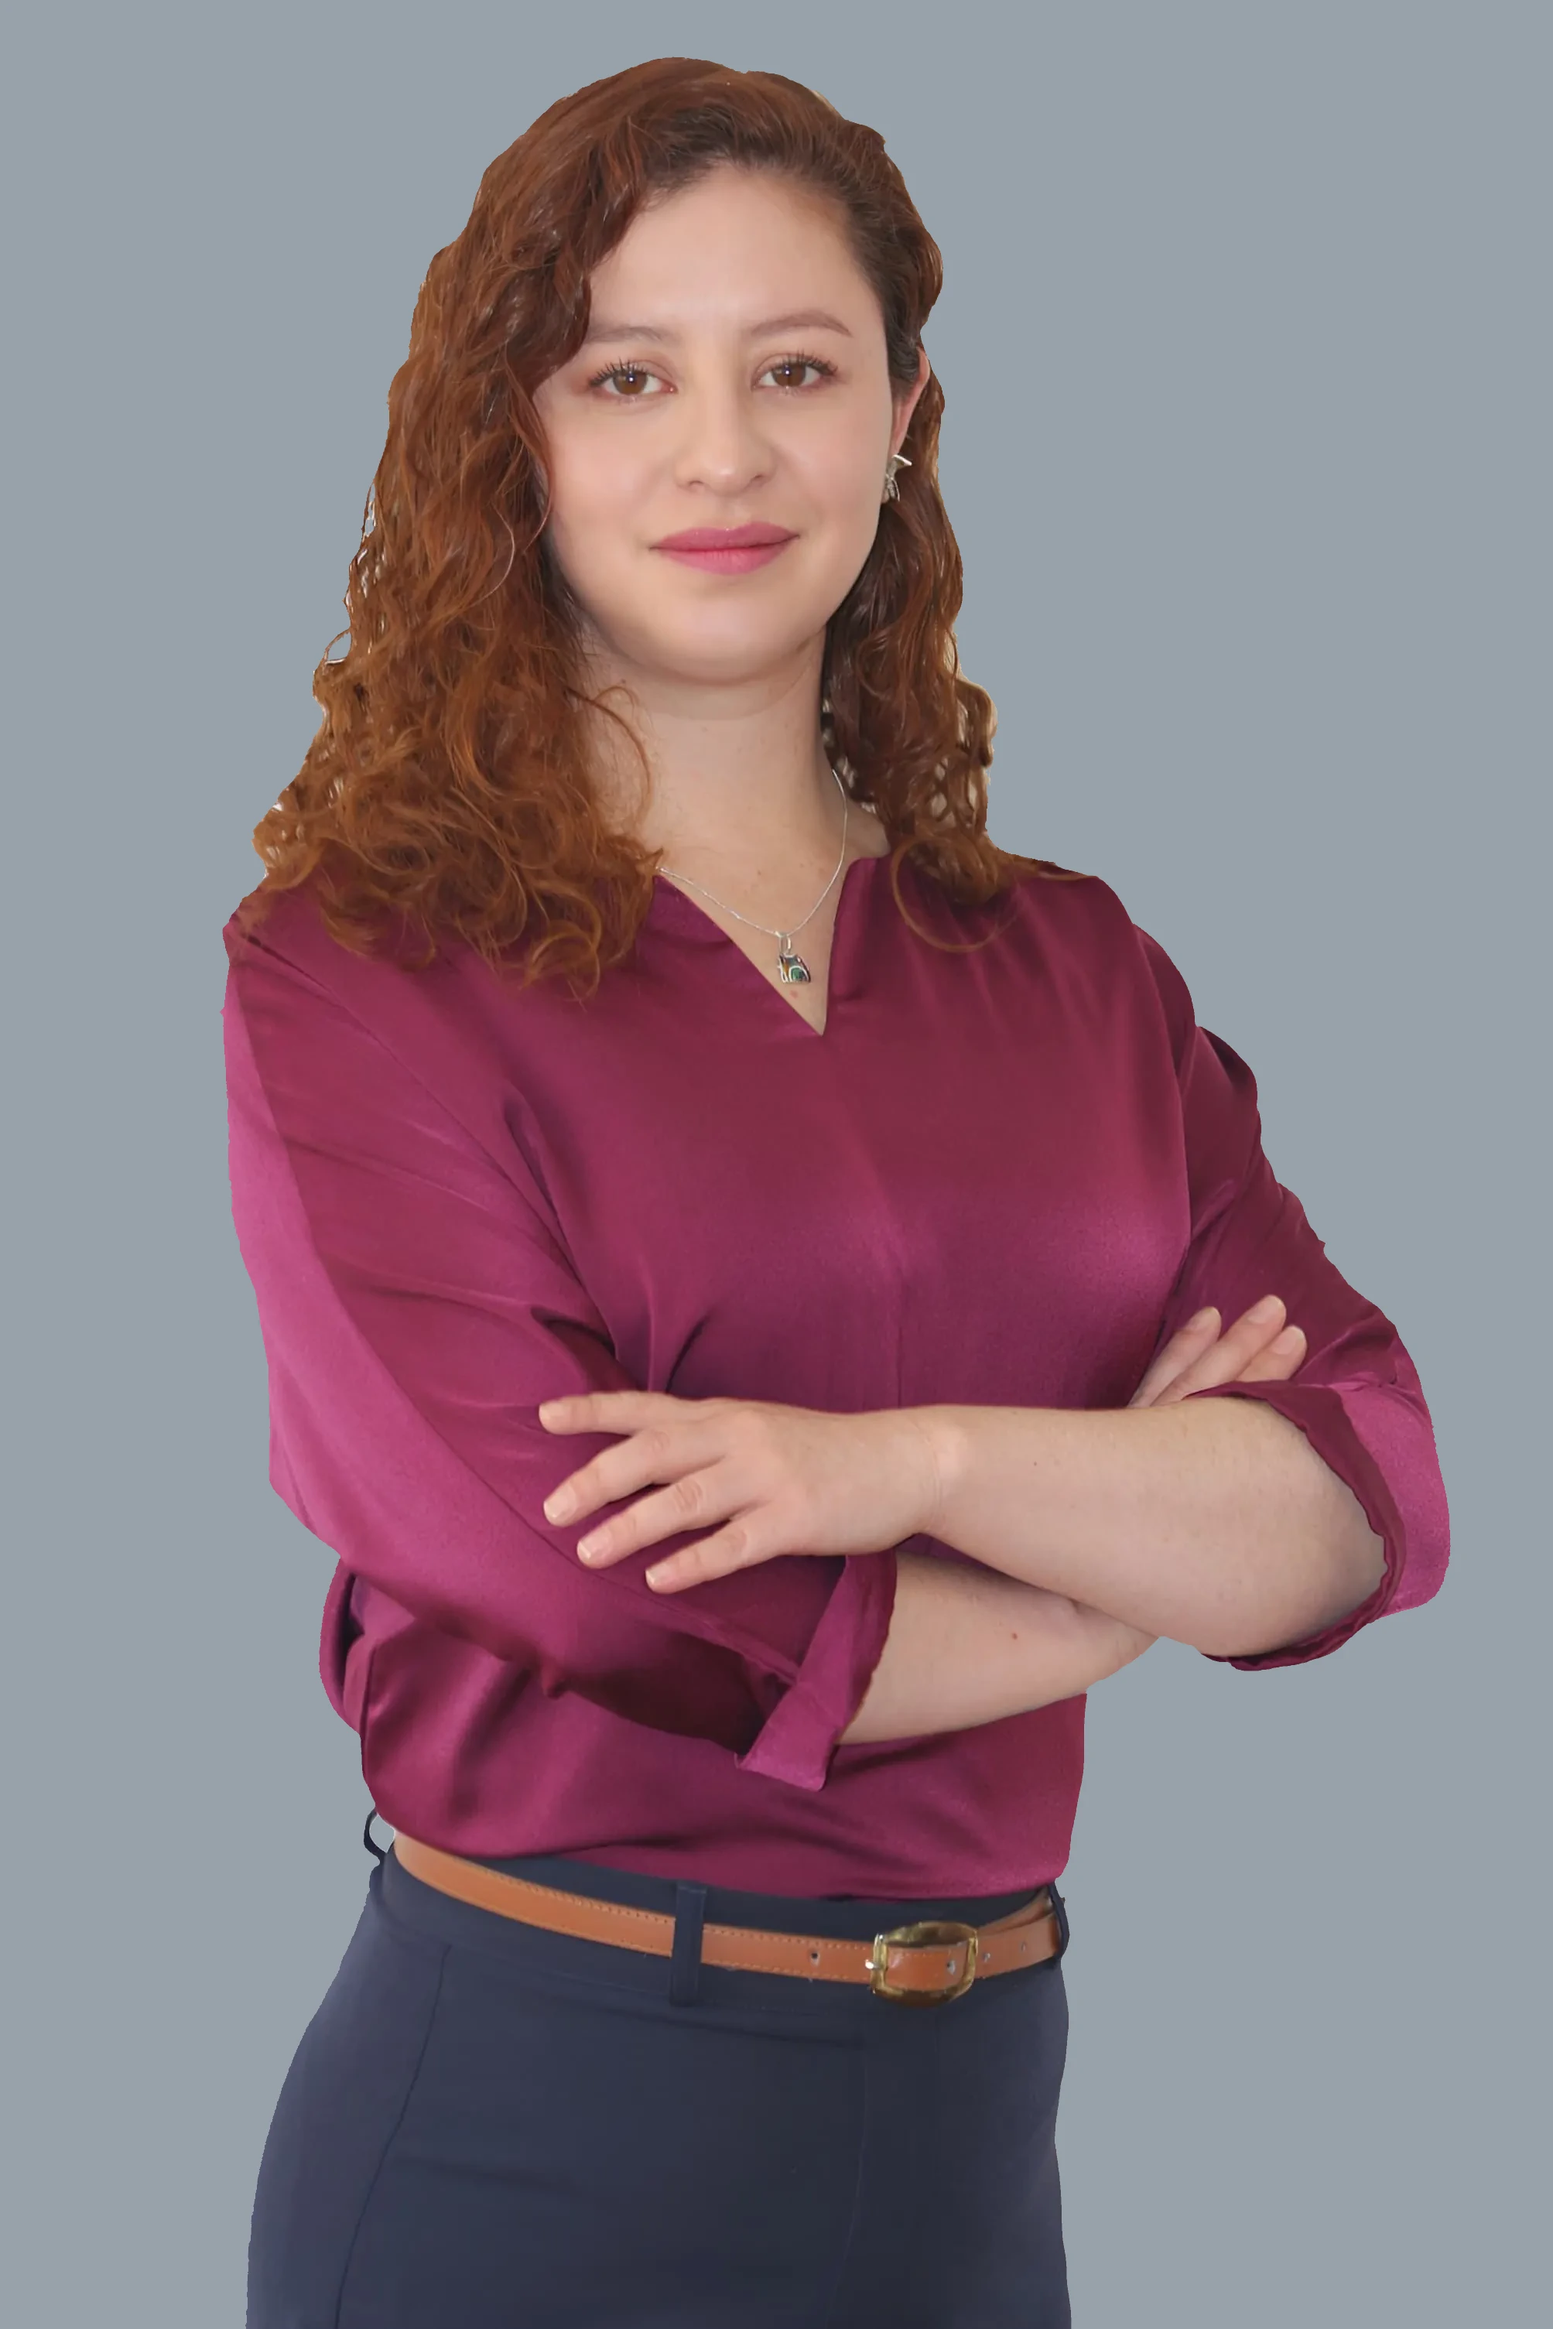
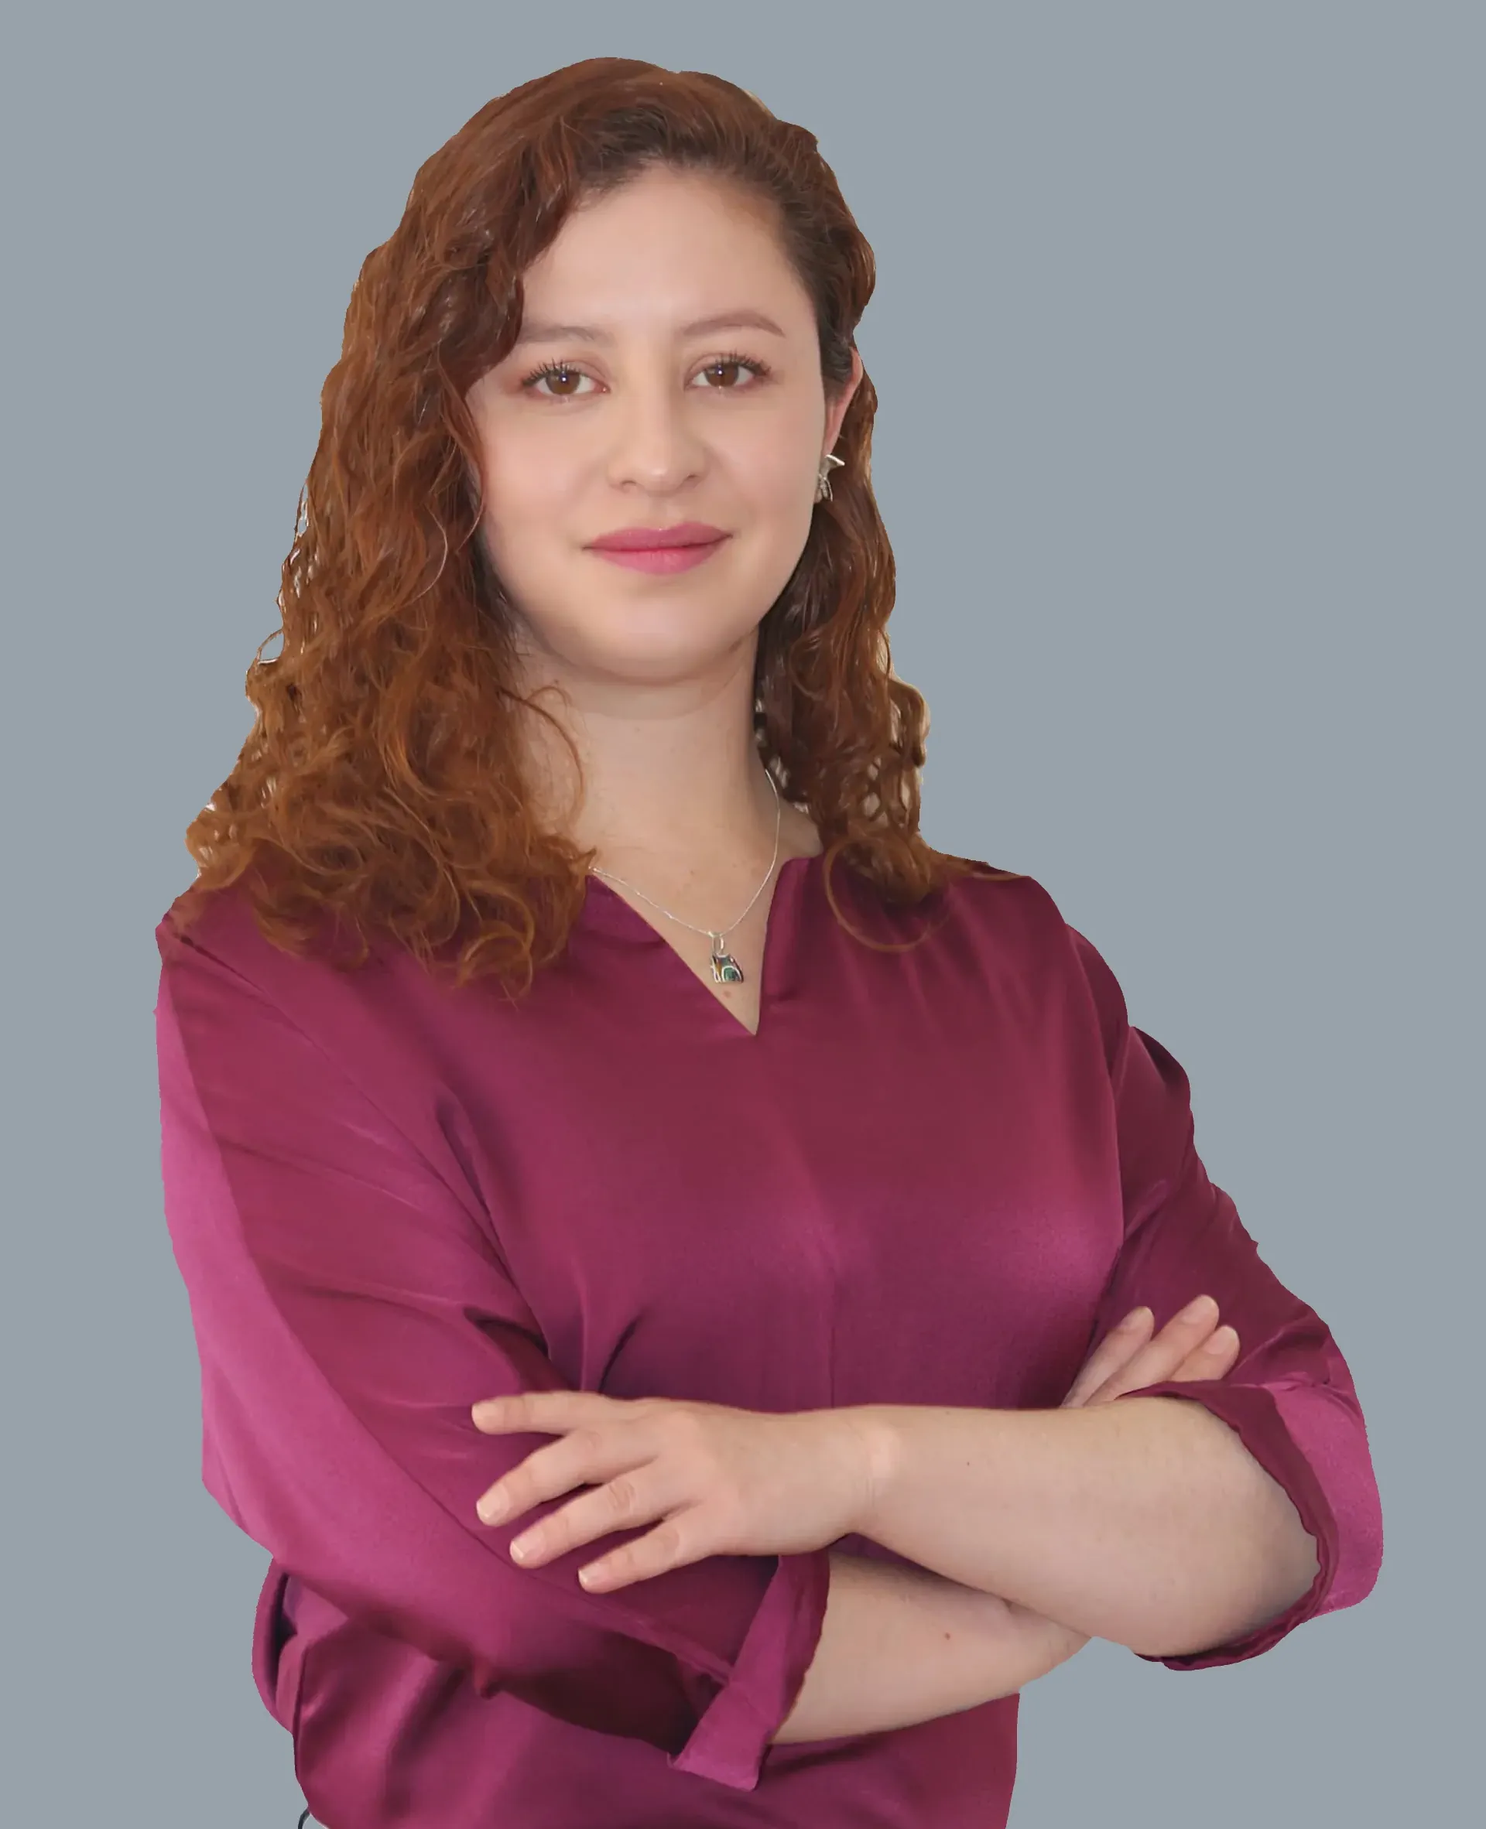
TeamCard fix widht and height

diff --git a/app/src/components/Cards/TeamCard.jsx b/app/src/components/Cards/TeamCard.jsx
@@ -29,7 +29,7 @@ const TeamCard = () => {
     {
       id: 3,
       name: "Dr. Sebastián Vizcaino",
-      titulo: "Médico de la Univerdidad Central del Ecuador",
+      titulo: "Médico Psiquiatra",
       especialidades: [
         "Especialista en Psiquiatría",
         "Psicoterapia/Psicoanálisis",
@@ -39,7 +39,7 @@ const TeamCard = () => {
     },
     {
       id: 4,
-      name: "Dr. Paola Zúñiga",
+      name: "Dr. Paola Zúñiga Vizcaino",
       titulo: "Médico Psiquiatra",
       especialidades: [
         "Especialista en Psiquiatría",
@@ -51,7 +51,7 @@ const TeamCard = () => {
     {
       id: 5,
       name: "Dr. Priscila Catucuamba",
-      titulo: "Terapeuta del Lenguaje de la UCE",
+      titulo: "Terapeuta del Lenguaje",
       especialidades: [
         "Diplomado en técnica ABA",
         "Intervención al TEA y TDAH",
@@ -61,31 +61,42 @@ const TeamCard = () => {
     },
     {
       id: 6,
-      name: "Karla Gutiérrez",
-      titulo: "",
+      name: "PSC. Karla Gutiérrez",
+      titulo: "Psicóloga clínica",
       especialidades: [],
       img: "/doctores/Karla.webp",
     },
     {
       id: 7,
       name: "Melanie Zabala",
-      titulo: "",
+      titulo: "Fisioterapeuta",
       especialidades: [],
       img: "/doctores/Melani.webp",
     },
     {
       id: 8,
       name: "Kimberly Trevino",
-      titulo: "",
+      titulo: "Psicóloga clínica",
       especialidades: [],
       img: "/doctores/Kim.webp",
     },
     {
       id: 9,
       name: "Pamela Sánchez",
-      titulo: "",
+      titulo: "Especialista en geriatría",
       especialidades: [],
       img: "/doctores/Pamela.webp",
+    },
+    {
+      id: 10,
+      name: "PSC. María Belén Villacis",
+      titulo: "Psicóloga clínica",
+      especialidades: [
+        "Magister en sexología clínica y terapia de pareja",
+        "Psicoterapia individual/ familiar y de pareja ",
+        "Sexología clínica",
+      ],
+      img: "/doctores/MariaBelen.webp",
     },
   ];
 
@@ -110,7 +121,7 @@ const TeamCard = () => {
                 style={{
                   backgroundImage: `url(${info.img}), radial-gradient(51.74% 45.16% at 46.65% 38%,#f6f7f8 0%, #98A2AA 44.58%, #98A2AA 100% )`,
                   backgroundSize: "contain",
-                  backgroundPosition: "center",
+                  backgroundPosition: "bottom",
                   backgroundRepeat: "no-repeat",
                 }}
               >

diff --git a/app/src/components/Cards/backCard.module.css b/app/src/components/Cards/backCard.module.css
@@ -6,6 +6,7 @@
   gap: 1rem;
   margin: 1rem;
   width: 300px;
+  min-height: 370px;
 }
 .img {
   width: 100px;
@@ -23,7 +24,6 @@
   align-items: start;
   gap: 1rem;
   margin: 2rem;
-  width: 225px;
 }
 
 .icon {
